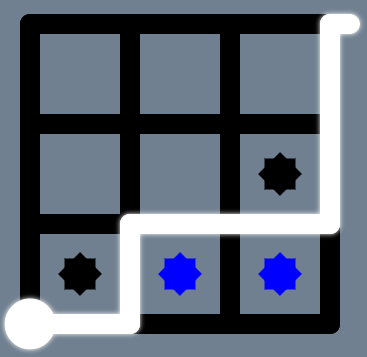
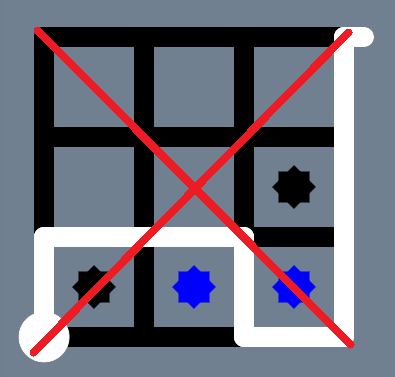
Update to buggy; Rotate map

diff --git a/script/LevelBuilder.cs b/script/LevelBuilder.cs
@@ -46,7 +46,7 @@ public class LevelBuilder : MonoBehaviour
     {
         // Generate a random level
         System.Console.SetOut(new DebugLogWriter());
-        Debug.Log("Generating a random level...");
+        UnityEngine.Debug.Log("Generating a random level...");
         if(nSquareByColor.Count != nSunByColor.Count){
             throw new System.ArgumentException("The number of colors for squares and suns must be the same");
         }
@@ -54,22 +54,22 @@ public class LevelBuilder : MonoBehaviour
             solution = Generator.GenerateLevel(dim, dim, nWalls, nHexagon, nSquareByColor.Count, nSquareByColor, nSunByColor);
         }
         catch(System.Exception e){
-            Debug.Log(e.Message);
-            Debug.Log("Level generation failed!");
+            UnityEngine.Debug.Log(e.Message);
+            UnityEngine.Debug.Log("Level generation failed!");
             return;
         }
         panel = solution.GetPanel();
-        panel.WriteToFile(Application.dataPath + "/demoScene/LAByrinth/Levels/level1.txt");
-        Debug.Log(panel.GetStart().Second + ", " + panel.GetStart().First);
-        Debug.Log(panel.GetEnd().Second + ", " + panel.GetEnd().First);
-        //Debug.Log("Level generated!");
+        // panel.WriteToFile(Application.dataPath + "/demoScene/LAByrinth/Levels/level1.txt");
+        UnityEngine.Debug.Log(panel.GetStart().Second + ", " + panel.GetStart().First);
+        UnityEngine.Debug.Log(panel.GetEnd().Second + ", " + panel.GetEnd().First);
+        //UnityEngine.Debug.Log("Level generated!");
         gridLevel = CreateGrid();
         Vector3[] solPoints = new Vector3[solution.GetPoints().Count];
         for (int i = 0; i < solution.GetPoints().Count; i++)
         {
-            // Debug.Log("solPoint: " + solution.GetPoints()[i].Second + ", " + solution.GetPoints()[i].First);
+            // UnityEngine.Debug.Log("solPoint: " + solution.GetPoints()[i].Second + ", " + solution.GetPoints()[i].First);
             solPoints[i] = gridLevel.GetCellWorldPosition(solution.GetPoints()[i].Second, solution.GetPoints()[i].First) + new Vector3(0f, 0.15f, 0f);
-            // Debug.Log("solPoint in world: " + solPoints[i]);
+            // UnityEngine.Debug.Log("solPoint in world: " + solPoints[i]);
         }
         solutionLine.GetComponent<LineRenderer>().positionCount = solPoints.Length;
         solutionLine.GetComponent<LineRenderer>().SetPositions(solPoints);
@@ -83,10 +83,10 @@ public class LevelBuilder : MonoBehaviour
         List<Tuple<int, int>> squares = solution.GetPanel().GetSquarePositions();
         List<Tuple<int, int>> suns = solution.GetPanel().GetSunPositions();
         // foreach(Tuple<int, int> square in squares){
-        //     Debug.Log("square at " + square.Second + ", " + square.First);
+        //     UnityEngine.Debug.Log("square at " + square.Second + ", " + square.First);
         // }
         // foreach(Tuple<int, int> sun in suns){
-        //     Debug.Log("sun at " + sun.Second + ", " + sun.First);
+        //     UnityEngine.Debug.Log("sun at " + sun.Second + ", " + sun.First);
         // }
         if (dim == 3) {
             ref_obj = origin_3x3;
@@ -119,7 +119,7 @@ public class LevelBuilder : MonoBehaviour
                     yield return new WaitForSeconds(0.2f);
                     int pillar_i = dim * 2 - (j * 2 + 1);
                     int pillar_j = dim * 2 - (i * 2 + 1);
-                    // Debug.Log("pillar at " + pillar_j + ", " + pillar_i);
+                    // UnityEngine.Debug.Log("pillar at " + pillar_j + ", " + pillar_i);
                     GameObject newChild;
                     if (squares.Contains(new Tuple<int, int>(pillar_j, pillar_i))) {
                         newChild = Instantiate(squarePrefabsByColor[solution.GetPanel().GetSymbol(pillar_j, pillar_i).GetColorId()], new Vector3(), pillarsParent.transform.rotation);
@@ -136,10 +136,19 @@ public class LevelBuilder : MonoBehaviour
             }
         }
         ffm.StartComputingForceFields();
-        Debug.Log("gridLevel = " + gridLevel.ToString());
-        Debug.Log("endDoor = " + GameObject.FindObjectOfType<EndDoor>().ToString());
+        UnityEngine.Debug.Log("gridLevel = " + gridLevel.ToString());
+        UnityEngine.Debug.Log("endDoor = " + GameObject.FindObjectOfType<EndDoor>().ToString());
         GameObject.FindObjectOfType<EndDoor>().AddGridLab(gridLevel);
         mapGenerator.generateMap(this, panel);
+        if (dim == 3) {
+            // rotate the map by 45 degrees and scale it by a factor of 0.5
+            GameObject.Find("MapFond3x3").transform.Rotate(0.0f, -45.0f, 0.0f);
+            GameObject.Find("MapFond3x3").transform.localScale =  GameObject.Find("MapFond3x3").transform.localScale * 0.5f;
+        } else {
+            // rotate the map by 45 degrees and scale it by a factor of 0.5
+            GameObject.Find("MapFond4x4").transform.Rotate(0.0f, -45.0f, 0.0f);
+            GameObject.Find("MapFond4x4").transform.localScale = GameObject.Find("MapFond4x4").transform.localScale * 0.5f;
+        }
     }
 
     public static void InitiatePlayerLine(GameObject startBlock) {
@@ -174,13 +183,13 @@ public class LevelBuilder : MonoBehaviour
         newChild.GetComponent<GridLab>().SetPanel(panel);
         newChild.GetComponent<GridLab>().startingY = 0;
         foreach(Tuple<int, int> hexPos in solution.GetPanel().GetHexagonPositions()){
-            // Debug.Log("hexagon at " + hexPos.Second + ", " + hexPos.First);
+            // UnityEngine.Debug.Log("hexagon at " + hexPos.Second + ", " + hexPos.First);
             newChild.GetComponent<GridLab>().instantiateAt((int)hexPos.Second, (int)hexPos.First, hexPrefab);
         }
 
         List<Tuple<int, int>> allwalls = solution.GetPanel().GetWallPositions();
         foreach(Tuple<int, int> wallPos in allwalls){
-            // Debug.Log("wall at " + wallPos.Second + ", " + wallPos.First);
+            // UnityEngine.Debug.Log("wall at " + wallPos.Second + ", " + wallPos.First);
             newChild.GetComponent<GridLab>().ActivateWallFF((int)wallPos.Second, (int)wallPos.First, true);
         }
         // Create a List with all possible wall positions such as y%2==1

diff --git a/script/GridLab.cs b/script/GridLab.cs
@@ -60,21 +60,14 @@ public class GridLab : MonoBehaviour
                     Debug.Log("Validity: " + result[0] + ", " + result[1] + ", " + result[2]);
                     int [] buggy = pp.BuggyRulesSuns();
                     Debug.Log("Buggy: " + buggy[0] + ", " + buggy[1] + ", " + buggy[2]);
-                    if(buggy[0] > 0){
-                        // enable 
+                    if(buggy[0] == 0){
                         GameObject.Find("Indice1").GetComponent<SpriteRenderer>().enabled = true;
                     }
-                    if(buggy[1] > 0){
-                        // enable 
+                    else if(buggy[1] == 0){
                         GameObject.Find("Indice2").GetComponent<SpriteRenderer>().enabled = true;
                     }
-                    if(buggy[2] > 0){
-                        // enable 
+                    else if(buggy[2] == 0){
                         GameObject.Find("Indice3").GetComponent<SpriteRenderer>().enabled = true;
-                    }
-                    List<Tuple<int, int>> test = panel.GetPathAdjacentPillars(Utils.InvertTupleList(sequence)[3].First, Utils.InvertTupleList(sequence)[3].Second);
-                    foreach (Tuple<int, int> t in test){
-                        Debug.Log("Adjacent Pillars: " + t.First + ", " + t.Second);
                     }
 
                 }
